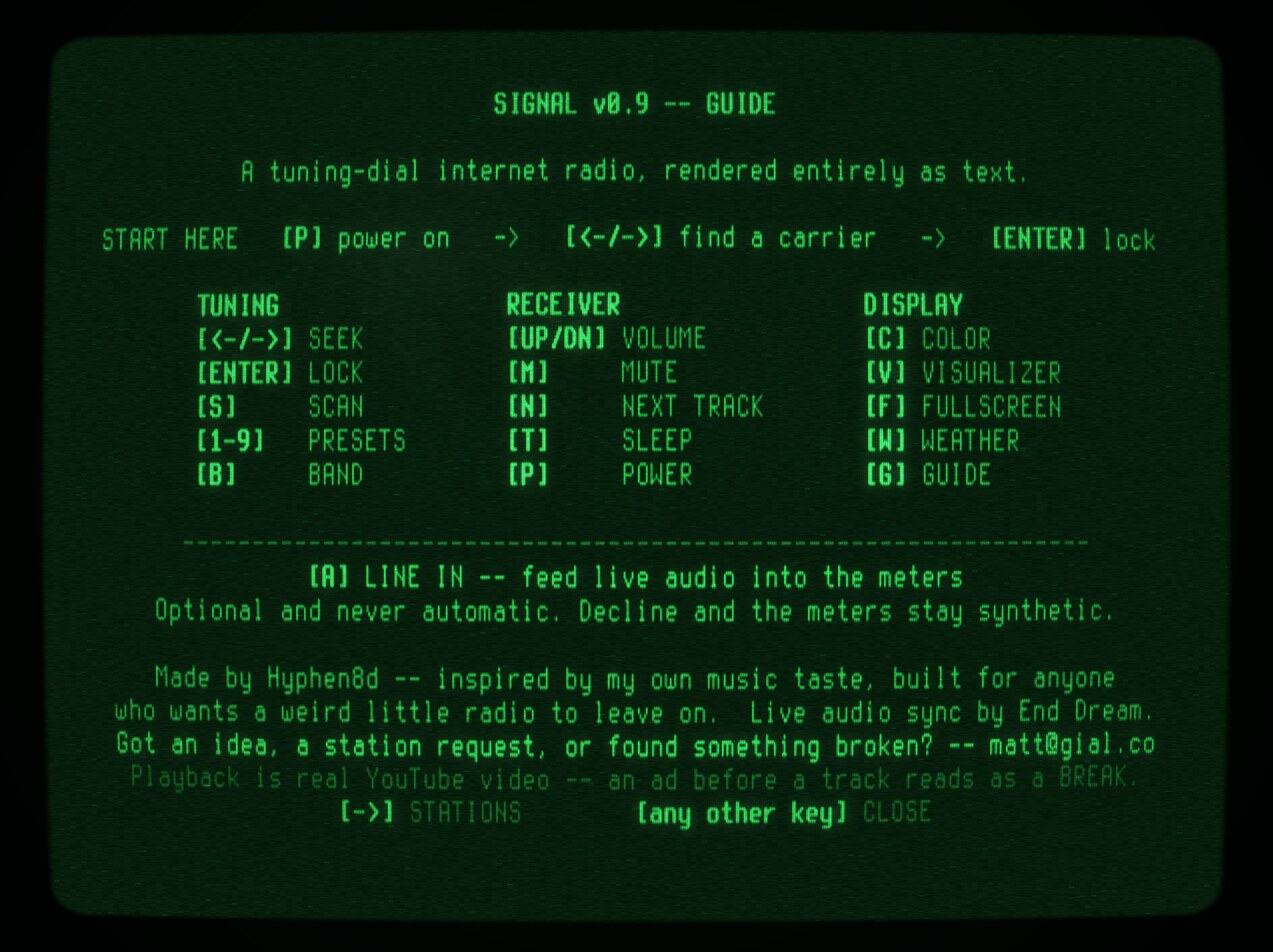
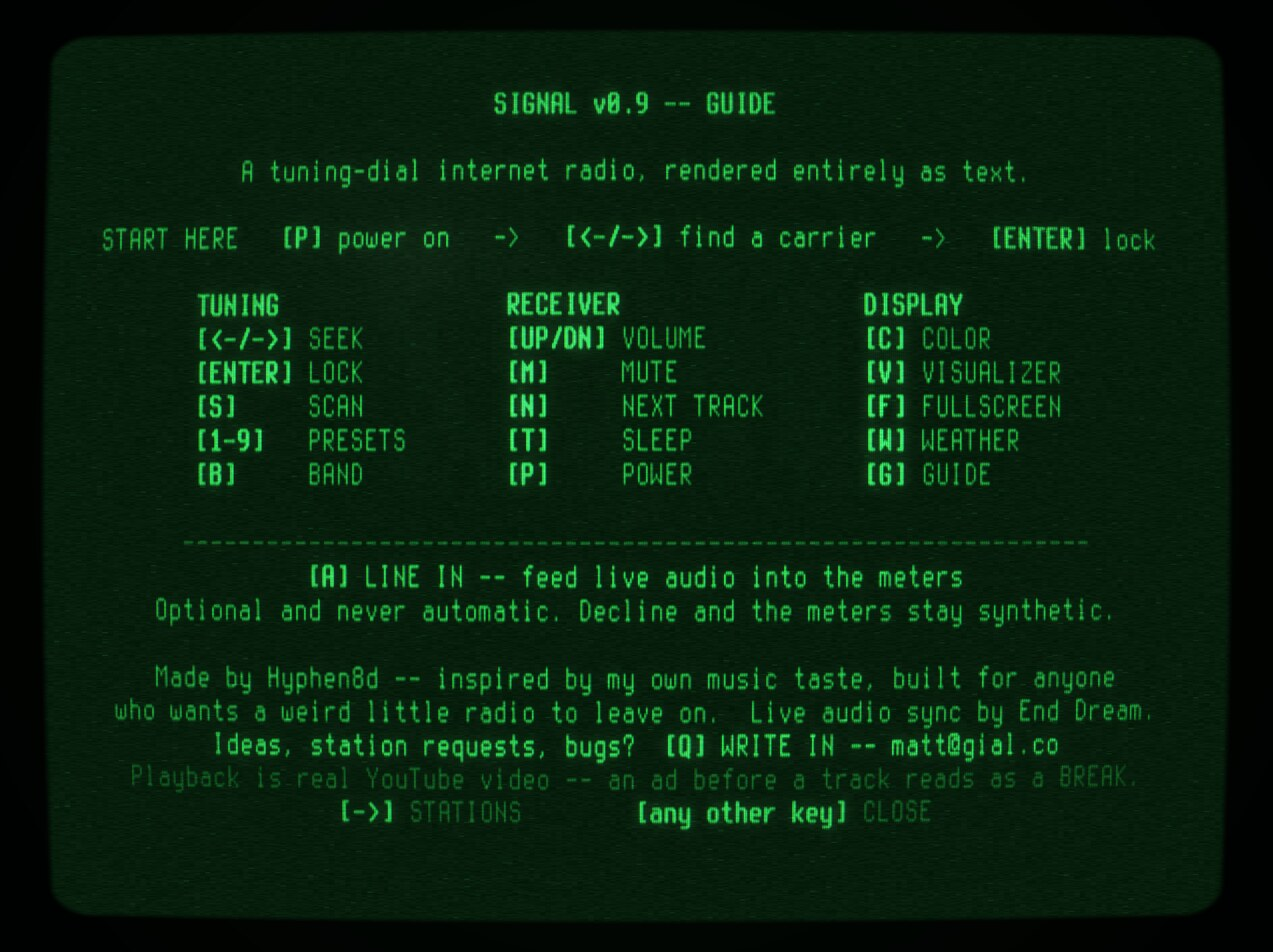
[Q] QSL: write to the station; contact line on the phone guide; Discussions
Kind messages were arriving and the only address on the set was drawn into
the canvas, where it can be neither clicked nor copied.

- [Q] opens a mailto pre-filled with what is on air and the build, copies
  the bare address, and holds WRITE IN: MATT@GIAL.CO on the status row for
  3s (a mailto does nothing visible with no mail client). Taught on the
  guide's About page; the footer is full. LISTENER_MAIL is the one copy.
- The narrow (phone) About page carries the contact line it had dropped.
- README: [Q] in the controls table, a "Just say hi" link to Discussions
  (now enabled); the issue chooser gets the same link.
- Tests through key(), mutation-checked; dead-feedback sweep presses 'q'.
- guide.jpg reshot against this tree. Stamp 2026-10-15.1.

Changed region(s): [[0.4595, 0.7616, 0.9191, 0.8225], [0.2145, 0.7616, 0.4289, 0.792], [0.0919, 0.7616, 0.1532, 0.792]]

diff --git a/program.js b/program.js
@@ -23,7 +23,7 @@ const { STATIC_CENTRE_DEFAULT, playBandBump, playBootTick, playDetent, playIdent
 const { TAP_BANDS, audioTapBootLine, maybeRetryAudioTapInGesture, queryMicPermission, resumeAudioTapIfGranted, sampleAudioTap, startAudioTap } = await import(`./audio/tap.js?v=${V}`)
 const { STATION_LINER_FILES, ensureLyricsFetched, isInstrumental, loadLinerBuffer, loadStationIdBuffer, loadWelcomeLineBuffer, lyricsStateFor, maybePlayLinerDrop, playNetworkId, playStationId, stopLiveVoice } = await import(`./audio/voice.js?v=${V}`)
 const { MOBILE_LITE, PHOSPHORS, SCREEN } = await import(`./config.js?v=${V}`)
-const { BREAK_HOLD_MS, BREAK_POLL_MS, DISPLAY_MODES, DUCK_IN_MS, DUCK_LEVEL, DUCK_OUT_MS, DUCK_TICK_MS, KONAMI_CODE, MAPPED_KEYS, REVEAL_CEILING_MS, SLEEP_FADE_MS, SLEEP_STEPS, VISUALIZER_KEYS } = await import(`./constants.js?v=${V}`)
+const { BREAK_HOLD_MS, BREAK_POLL_MS, DISPLAY_MODES, DUCK_IN_MS, DUCK_LEVEL, DUCK_OUT_MS, DUCK_TICK_MS, KONAMI_CODE, LISTENER_MAIL, MAPPED_KEYS, REVEAL_CEILING_MS, SLEEP_FADE_MS, SLEEP_STEPS, VISUALIZER_KEYS } = await import(`./constants.js?v=${V}`)
 const { crtBase, flashCrtGlitch, flashFocusSnap, rampCrtParams, setCrtCharacter, setCrtDegradation } = await import(`./crt-hooks.js?v=${V}`)
 const { BOX_BOTTOM_FLASH_ATTR, BOX_BOTTOM_REST_ATTR, BOX_BOTTOM_ROWS, BOX_X0, BOX_X1, DIAL_X0, DIAL_X1, DIAL_Y, METERS_BOT_Y, METERS_DIVIDER_X, STATION_Y, centerX, clearGrid, standbyLayout, truncate } = await import(`./layout.js?v=${V}`)
 const { loadSignalState, saveSignalState } = await import(`./state.js?v=${V}`)
@@ -2736,6 +2736,59 @@ export default {
     return 'COPIED'
   },
 
+  /** [Q] QSL (2026-10-14) -- the mail [Q] opens. Split out from writeIn()
+   *  for the same reason shareUrl() is split from tagTrack(): the URL is the
+   *  interesting part and Node has no mail client.
+   *
+   *  The body is pre-filled with what is on air and the build. The station
+   *  and track turn "I love this" into "I love this, on THAT", which is what
+   *  makes a listener report worth having; the build is what turns a bug
+   *  report from a description into something reproducible. Both are plain
+   *  lines the sender can delete -- nothing here is sent without them seeing
+   *  it, since a mailto only ever opens a draft. */
+  listenerMailUrl() {
+    const lines = []
+    const st = this.mode === 'locked' ? this.lockedStation : null
+    const tr = st ? this.currentTrack : null
+    if (st) {
+      lines.push(`Tuned to ${st.callsign} (${Number(st.freq).toFixed(1)})` +
+        (tr ? ` -- ${tr.title} by ${tr.artist}` : ''))
+    }
+    lines.push(`Build ${globalThis.SIGNAL_BUILD || 'unknown'}`, '', '')
+    const subject = encodeURIComponent('SIGNAL listener report')
+    const body = encodeURIComponent(lines.join('\n'))
+    return `mailto:${LISTENER_MAIL}?subject=${subject}&body=${body}`
+  },
+
+  /** [Q] QSL (2026-10-14) -- write to the station.
+   *
+   *  Named for the QSL card: stations asked listeners to write in, and sent a
+   *  card back confirming the reception. That is what gets it past "would a
+   *  real radio have this?" -- the impulse is a radio one, the envelope is
+   *  just email now. Built because kind messages were arriving and the only
+   *  address on the set was drawn INTO the canvas: it could not be clicked or
+   *  copied, so writing in meant retyping it, which is enough friction to
+   *  stop a two-line thank-you.
+   *
+   *  Does two things, because neither is certain. It opens a mail draft --
+   *  but a mailto does nothing visible on a machine with no mail client, and
+   *  may be refused inside itch.io's sandboxed iframe. So it also copies the
+   *  bare address and holds it on the status row long enough to read: the
+   *  one outcome that cannot fail silently is the address in front of you.
+   *
+   *  Main screen only. The visualizer's legend has no room for it, and the
+   *  guide's About page (where the address already lived) is where it is
+   *  taught -- the footer's line1 is 72 of 80 columns and line2 75. */
+  writeIn(s) {
+    const url = this.listenerMailUrl()
+    try { if (globalThis.location) globalThis.location.href = url } catch (e) {}
+    try {
+      const cb = globalThis.navigator?.clipboard
+      if (cb && typeof cb.writeText === 'function') Promise.resolve(cb.writeText(LISTENER_MAIL)).catch(() => {})
+    } catch (e) {}
+    this.flashStatus(s, `WRITE IN: ${LISTENER_MAIL.toUpperCase()}`, 3000)
+  },
+
   /** [B] BAND (2026-08-31). Steps to the next band and lands at its bottom
    *  edge, seeking.
    *
@@ -3503,6 +3556,8 @@ export default {
       // case, and it sidesteps the Caps-Lock subtlety Shift+C carries a note
       // about (e.key is 'T' for both Shift+t and Caps-Lock+t).
       case 'k': case 'K': e.preventDefault(); this.flashStatus(s, this.tagTrack(s)); break
+      // [Q] QSL (2026-10-14) -- write to the station. See writeIn().
+      case 'q': case 'Q': e.preventDefault(); this.writeIn(s); break
       case 'p': case 'P': e.preventDefault(); this.powerDown(s); break
       // [B] BAND (2026-08-31) -- was BACK, which walked a stack of recently
       // locked stations. That key is spent on the band switch instead, and

diff --git a/ui/guide.js b/ui/guide.js
@@ -7,7 +7,7 @@
 import { BOLD, BRIGHT, DIM, FAINT, MUTED, NORMAL } from '../src/term.js'
 const V = globalThis.SIGNAL_BUILD ?? ''
 const { playPanelSound, stopStaticNoise } = await import(`../audio/sfx.js?v=${V}`)
-const { VERSION_TAG } = await import(`../constants.js?v=${V}`)
+const { LISTENER_MAIL, VERSION_TAG } = await import(`../constants.js?v=${V}`)
 const { centerX, clearGrid, sampleTracks, truncate, wordWrap } = await import(`../layout.js?v=${V}`)
 const { STATIONS } = await import(`../stations.js?v=${V}`)
 
@@ -272,6 +272,15 @@ export default {
       // asks for the microphone") -- so this was a phone being told about
       // a control that tier does not have and cannot get. The rows it frees
       // are what let the seven gesture rows above breathe.
+      // 2026-10-14 -- the contact line, which the narrow page had dropped
+      // with the credits: a phone was the one way to use SIGNAL that never
+      // said where to write. Rows 16-18 sit between the gesture rows (7-13)
+      // and the footer; both strings are measured against 42 cols. A phone
+      // cannot press [Q] and TAP closes this page, so it is the address and
+      // nothing else.
+      const ask = 'Ideas, requests, something broken?'
+      term.text(centerX(term.cols, ask), 16, ask, MUTED)
+      term.text(centerX(term.cols, LISTENER_MAIL), 18, LISTENER_MAIL, BRIGHT)
       const foot = 'SWIPE STATIONS   TAP CLOSE'
       term.text(centerX(term.cols, foot), term.rows - 1, foot, FAINT)
       return
@@ -281,7 +290,12 @@ export default {
     put(16, 'Optional and never automatic. Decline and the meters stay synthetic.', MUTED)
     put(18, 'Made by Hyphen8d -- inspired by my own music taste, built for anyone', MUTED)
     put(19, 'who wants a weird little radio to leave on.  Live audio sync by End Dream.', MUTED)
-    put(20, 'Got an idea, a station request, or found something broken? -- matt@gial.co', BRIGHT)
+    // 2026-10-14 -- names [Q] QSL, which opens a mail to this address and
+    // copies it. The address alone, drawn into a canvas, could be neither
+    // clicked nor copied. drawGuideKeyLine rather than put() so [Q] lifts
+    // like every other bracketed control on the page.
+    const ask = `Ideas, station requests, bugs?  [Q] WRITE IN -- ${LISTENER_MAIL}`
+    this.drawGuideKeyLine(s, 20, ask, BRIGHT)
     // 20th pass -- addresses viewers without YouTube Premium hearing ads.
     // Decided against anything that tries to detect/suppress the ad itself
     // (that's ad-blocking circumvention against YouTube's ToS, not something

diff --git a/index.html b/index.html
@@ -124,7 +124,9 @@
       Up and down arrows set the volume, M mutes. N skips to the next track.
       G opens the guide, which lists every station. V opens the visualiser, L
       its lyrics view, C changes the phosphor colour, W the weather, T a sleep
-      timer, K copies a link to what is playing, and F goes fullscreen.</p>
+      timer, K copies a link to what is playing, and F goes fullscreen.
+      Q writes to the station: it opens an email to matt@gial.co and copies
+      the address.</p>
   </div>
   <div id="announce" class="sr-only" role="status" aria-live="polite" aria-atomic="true"></div>
   <canvas id="tube" role="img" aria-label="The receiver's screen. Its contents are announced as they change."></canvas>

diff --git a/constants.js b/constants.js
@@ -57,7 +57,14 @@ export const MAPPED_KEYS = new Set([
   // playKeyClick(), and a key that acts without clicking is exactly the
   // drift the dead-feedback sweep exists to catch.
   'k', 'K',
+  // 2026-10-14 -- [Q] QSL, write to the station. See writeIn() in program.js.
+  'q', 'Q',
 ])
+
+// [Q] QSL (2026-10-14) -- where listener mail goes. One copy, read by both
+// the key (program.js writeIn) and the guide's About page, so the address
+// on screen and the address the mail opens to cannot drift apart.
+export const LISTENER_MAIL = 'matt@gial.co'
 
 // Sleep timer (2026-08-27) -- the minute steps [T] cycles through, then off.
 // Descending, the way a clock radio's SLEEP button has always worked: the

diff --git a/README.md b/README.md
@@ -94,6 +94,11 @@ you to know anything about the code:
   killed a play/pause button.
 - **[Ask something else](https://github.com/hyphen8d/signal/issues/new?template=question.yml)**
   — or just email <matt@gial.co> if an issue feels like too much ceremony.
+  Press `[Q]` on the set and the email opens with the station and track
+  already in it.
+- **[Just say hi](https://github.com/hyphen8d/signal/discussions)** — if
+  SIGNAL has become part of your day, tell me which station, or show where
+  you leave it running. None of this needs to be a bug.
 
 Nothing is too small. "This one track is quieter than the rest of the
 station" is exactly the kind of thing that's invisible from the inside.
@@ -225,6 +230,7 @@ every visualizer effect, and assert on what's on the grid.
 | `B` | Band -- switches the dial between **YM** (100.0-900.0) and **ZM** (1000.0-1800.0). Each band is its own dial with its own stations, its own `1`-`9` presets and its own guide pages; the tuner box and the scale row above it are named for whichever one is up. The set remembers which band you left it on |
 | `N` | Next track on the current station |
 | `K` | Tag -- copies a shareable line for whatever is playing: the station, the track, and a link that opens SIGNAL tuned to exactly that. Named for the TAG button HD Radio sets carried, which marked a song you liked so you could find it later. Works from the visualizer too. What lands on the clipboard is a readable line and then the link -- `TRADEWINDS on SIGNAL -- Ringo Oiwake by Arthur Lyman` -- because a bare link previews as the same generic card whatever station it points at, and so cannot say what you are listening to. **Needs a secure connection**, the same limit `[W]` has: browsers refuse the clipboard over plain `http`, so this works on the deployed site and on `localhost`, but not over a bare IP address |
+| `Q` | QSL -- write to the station, named for the cards stations sent listeners who wrote in. Opens an email to <matt@gial.co> with what is on air and the build already filled in, and copies the address too, since an email link does nothing on a machine with no mail app. The address stays on the status row long enough to read |
 | `Up` / `Down` | Volume |
 | `M` | Mute |
 | `T` | Sleep timer -- steps down 60 / 30 / 15 minutes and off again, the way a clock radio's SLEEP button always has. A `SLP mm:ss` countdown sits in the title bar; the last 30 seconds fade out (the VOL bar follows the fade down) and then the set switches itself off through the normal power-down. Works from the visualizer too, and the countdown stays readable in there. Never persisted -- no clock radio keeps its sleep setting across a power cut either |

diff --git a/CHANGELOG.md b/CHANGELOG.md
@@ -2165,6 +2165,22 @@ feature, watch its test go red, restore.
   - The fake player, which now matches its own capture.
   - A 1-in-8 flake, where a character read couldn't see FLAME's pixel cells.
 
+### Write to the station: [Q] QSL (2026-10-14)
+
+Kind messages were arriving, and the only address on the set was drawn into
+the canvas, where it can be neither clicked nor copied.
+
+- **`[Q]` opens a mail to the station**, named for the QSL card stations
+  sent listeners who wrote in. The draft comes pre-filled with what is on
+  air (station, frequency, track) and the build, so a thank-you says what it
+  is about and a bug report is reproducible. Because a `mailto:` does nothing
+  visible without a mail client, it also copies the address and holds it on
+  the status row for three seconds. Taught on the guide's About page, since
+  the footer is full.
+- **The phone guide says where to write.** The narrow About page had dropped
+  the contact line along with the credits, so the layout most shared links
+  open on never gave an address.
+
 ## [0.9] — 2026-08-23
 
 ### Visualizer
